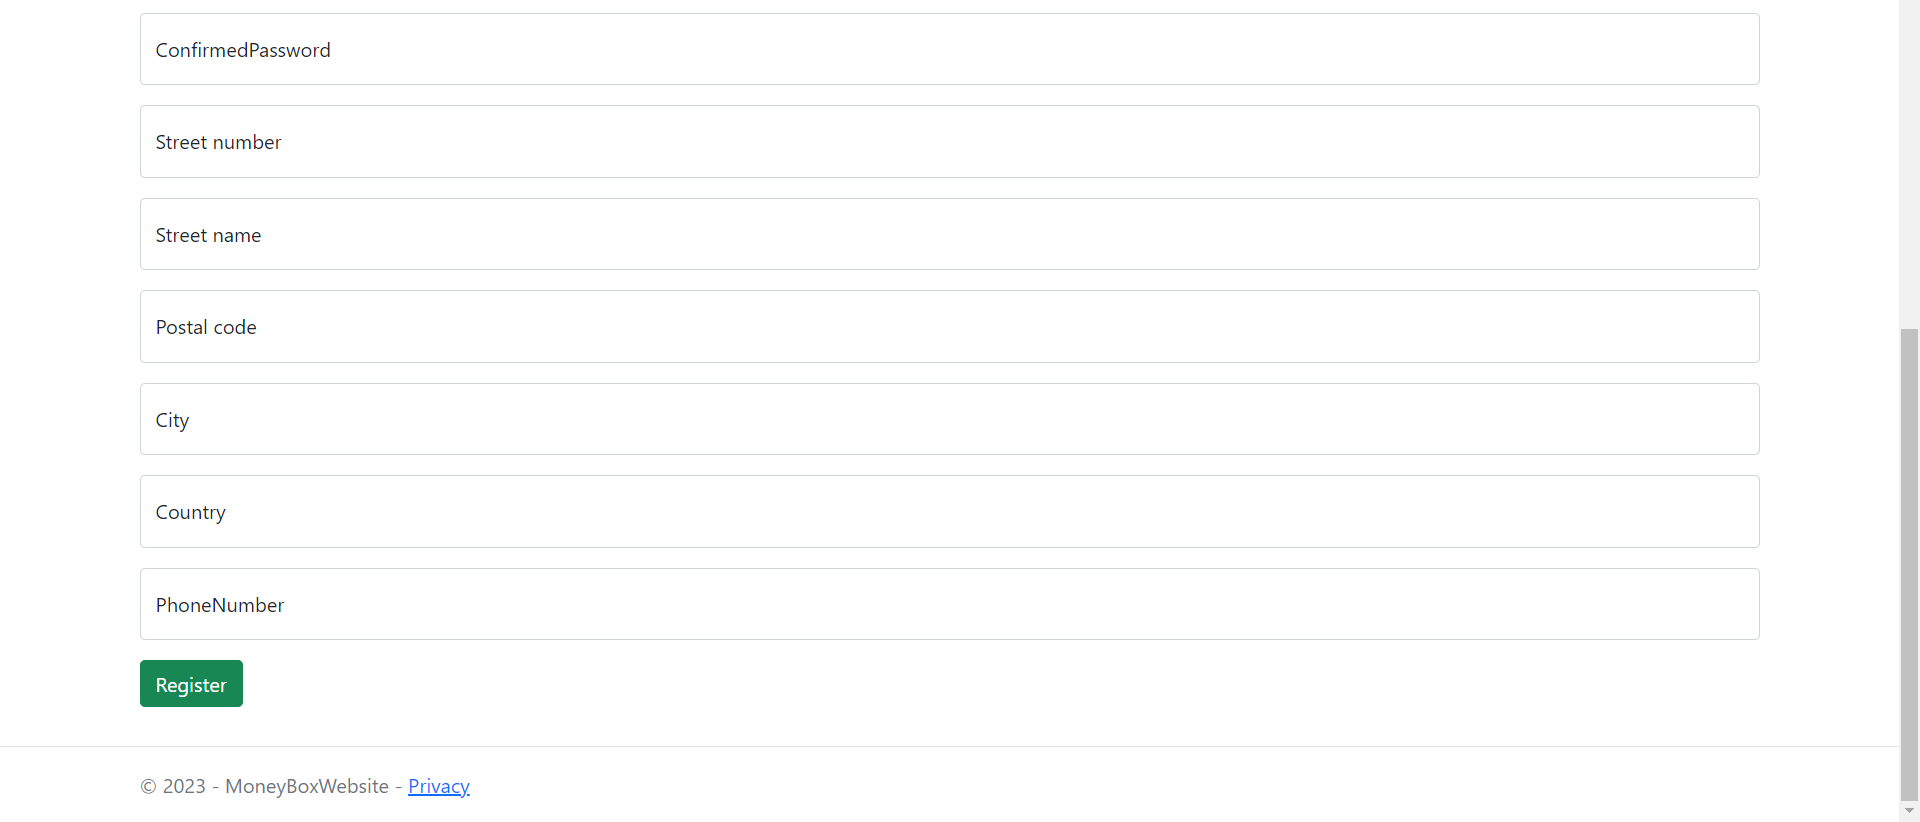
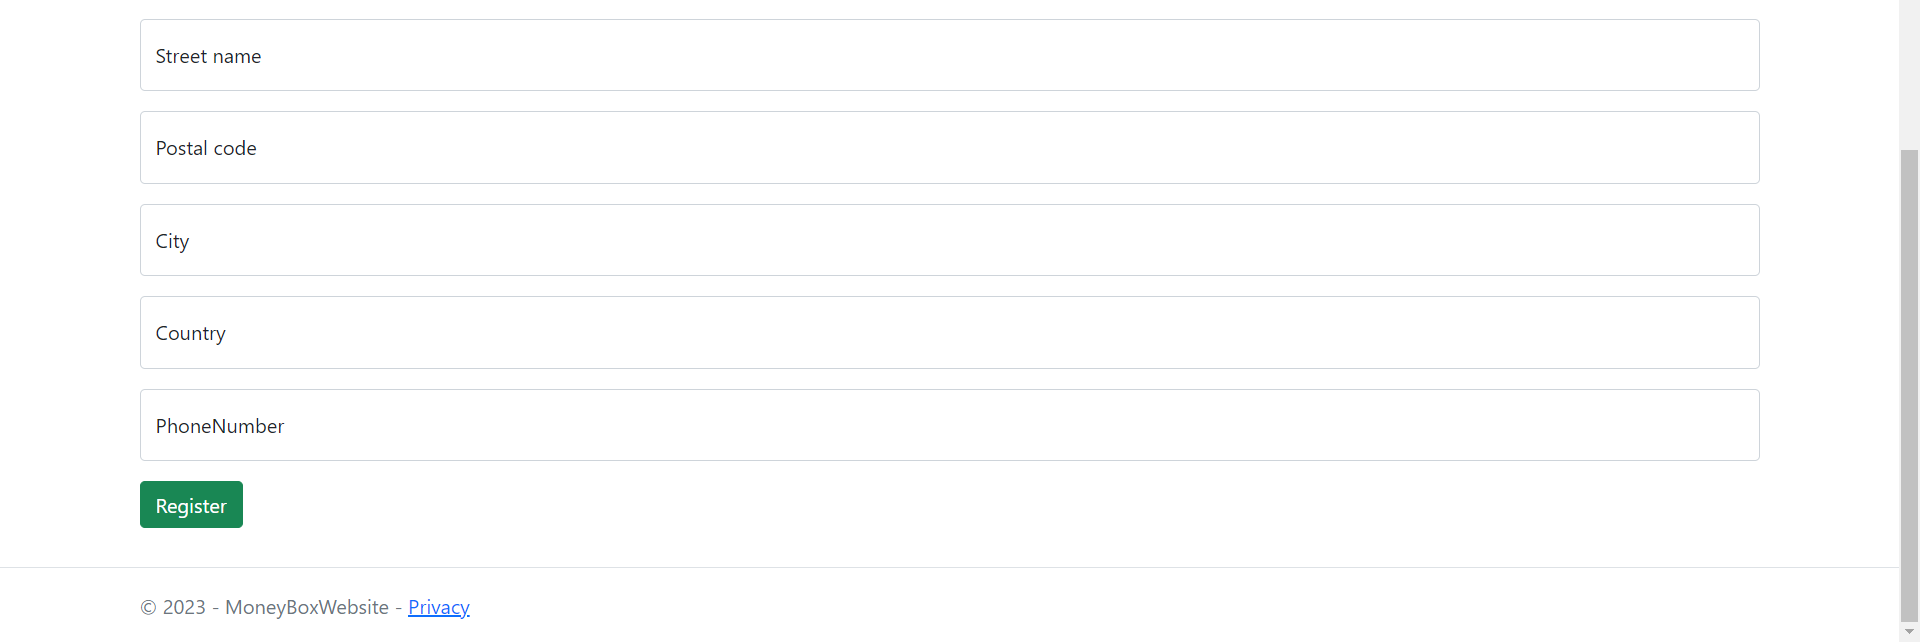
docs: :memo: add big titles and explainations about the current state of the account feature

diff --git a/README.md b/README.md
@@ -37,10 +37,29 @@ Given the few time I was given, I decided to made a condensed MCD and used it to
 ## What's done
 
 Quickly, there currently are:
-- **A register, login and logout** system
-- A **role management system** that allows to add roles to users. Each roles has defined access and restrictions.
-- A **product manager** that allows to add, edit, delete and show all the products. Some products may be disabled and basic users cannot see them, instead of some other roles. Products can be linked with "product groups" that can be used to sort or show similar products or colors.
+- **A register, login and logout** system. 
+*See [Account](#account) for more details.*
+- A **role management system** that allows to add roles to users. Each roles has defined access and restrictions. 
+*See [Role Manager](#role-manager) for more details.*
+- A **product manager** that allows to add, edit, delete and show all the products. Some products may be disabled and basic users cannot see them, instead of some other roles. Products can be linked with "product groups" that can be used to sort or show similar products or colors. 
+*See [Product Manager](#product-manager) for more details.*
 - The shopping cart is an on-going feature.
+
+### Account
+
+<img src="resources/register1.png" alt="register top">
+<img src="resources/register2.png" alt="register bottom">
+
+When creating an account, many checks are done in order to avoid duplicate username and email. I also used many regular expressions and Data Annotations to avoid receiving invalid entries.
+
+<br>
+
+<img src="resources/Login.png" alt="login">
+When the user sign in, he can also check the "Stay signed in" box to create a cookie that allows to stay connected even when closing the web browser.
+
+### Role Manager
+
+### Product Manager
 
 ## To-do
 
